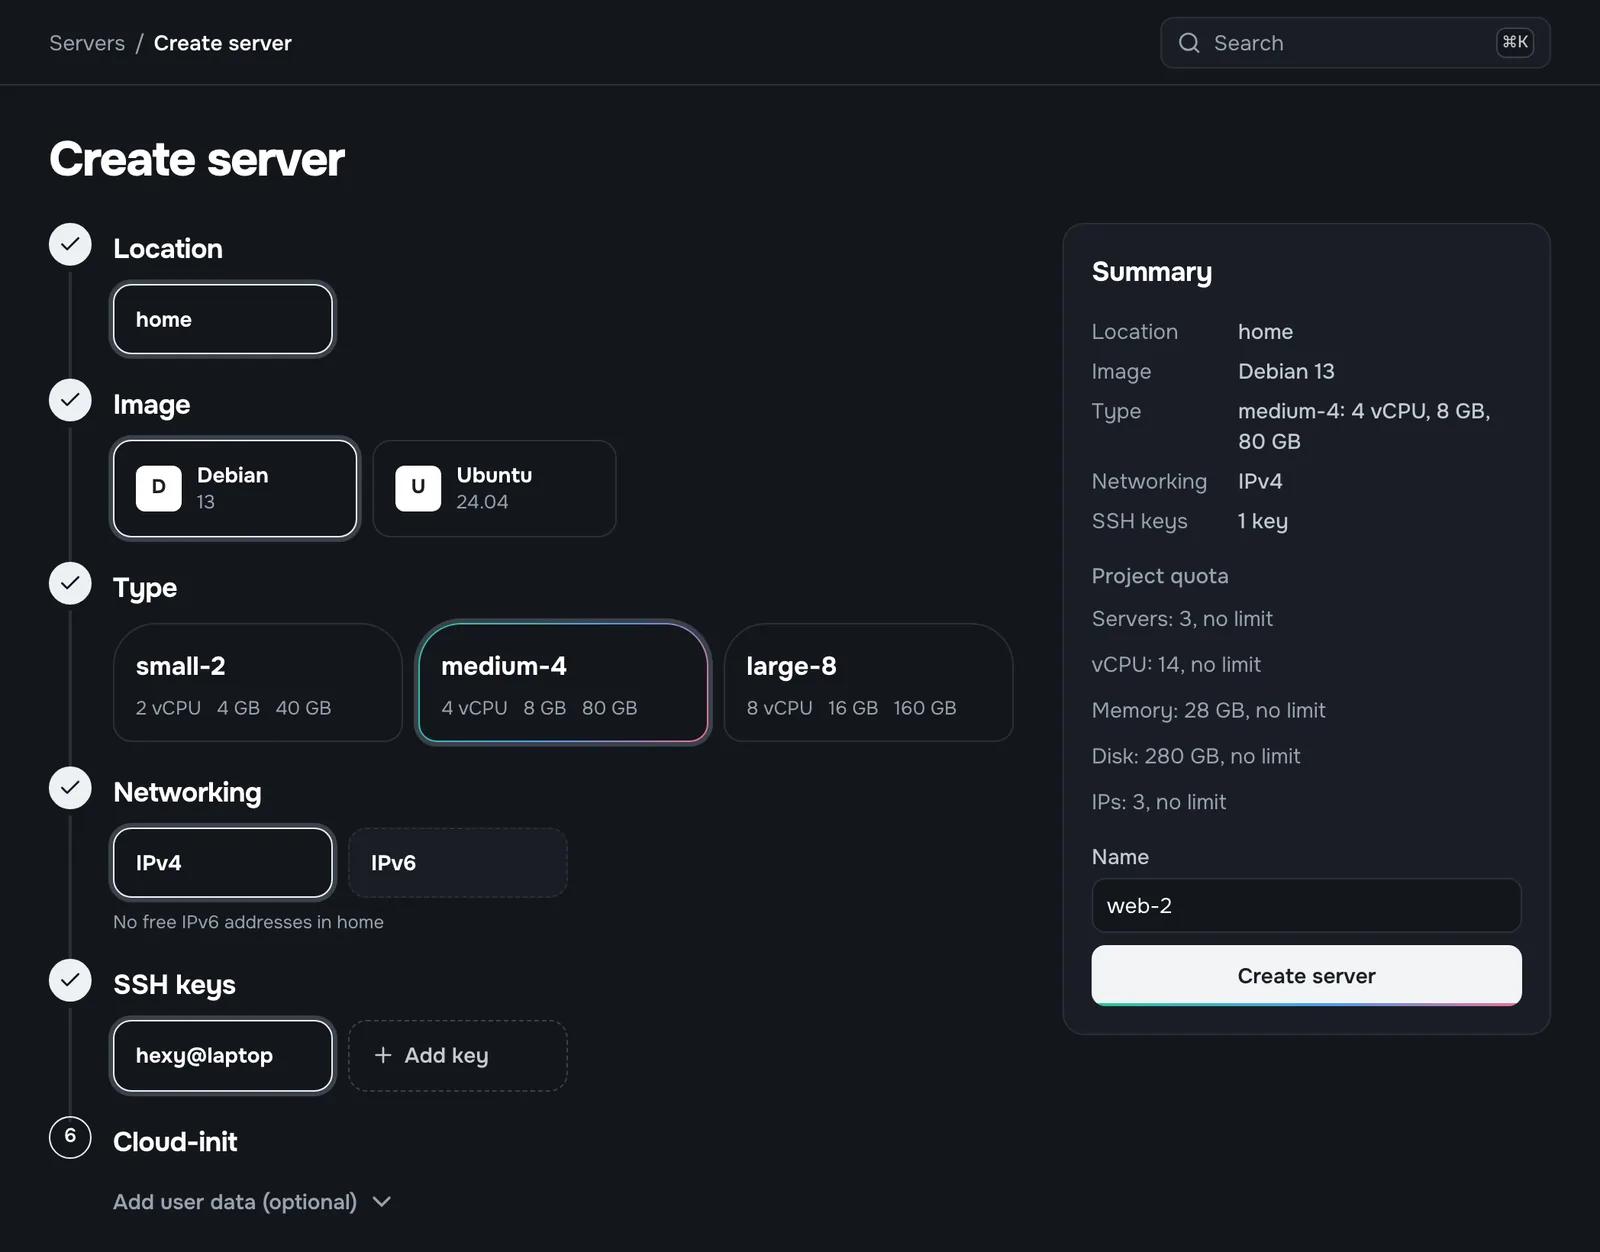
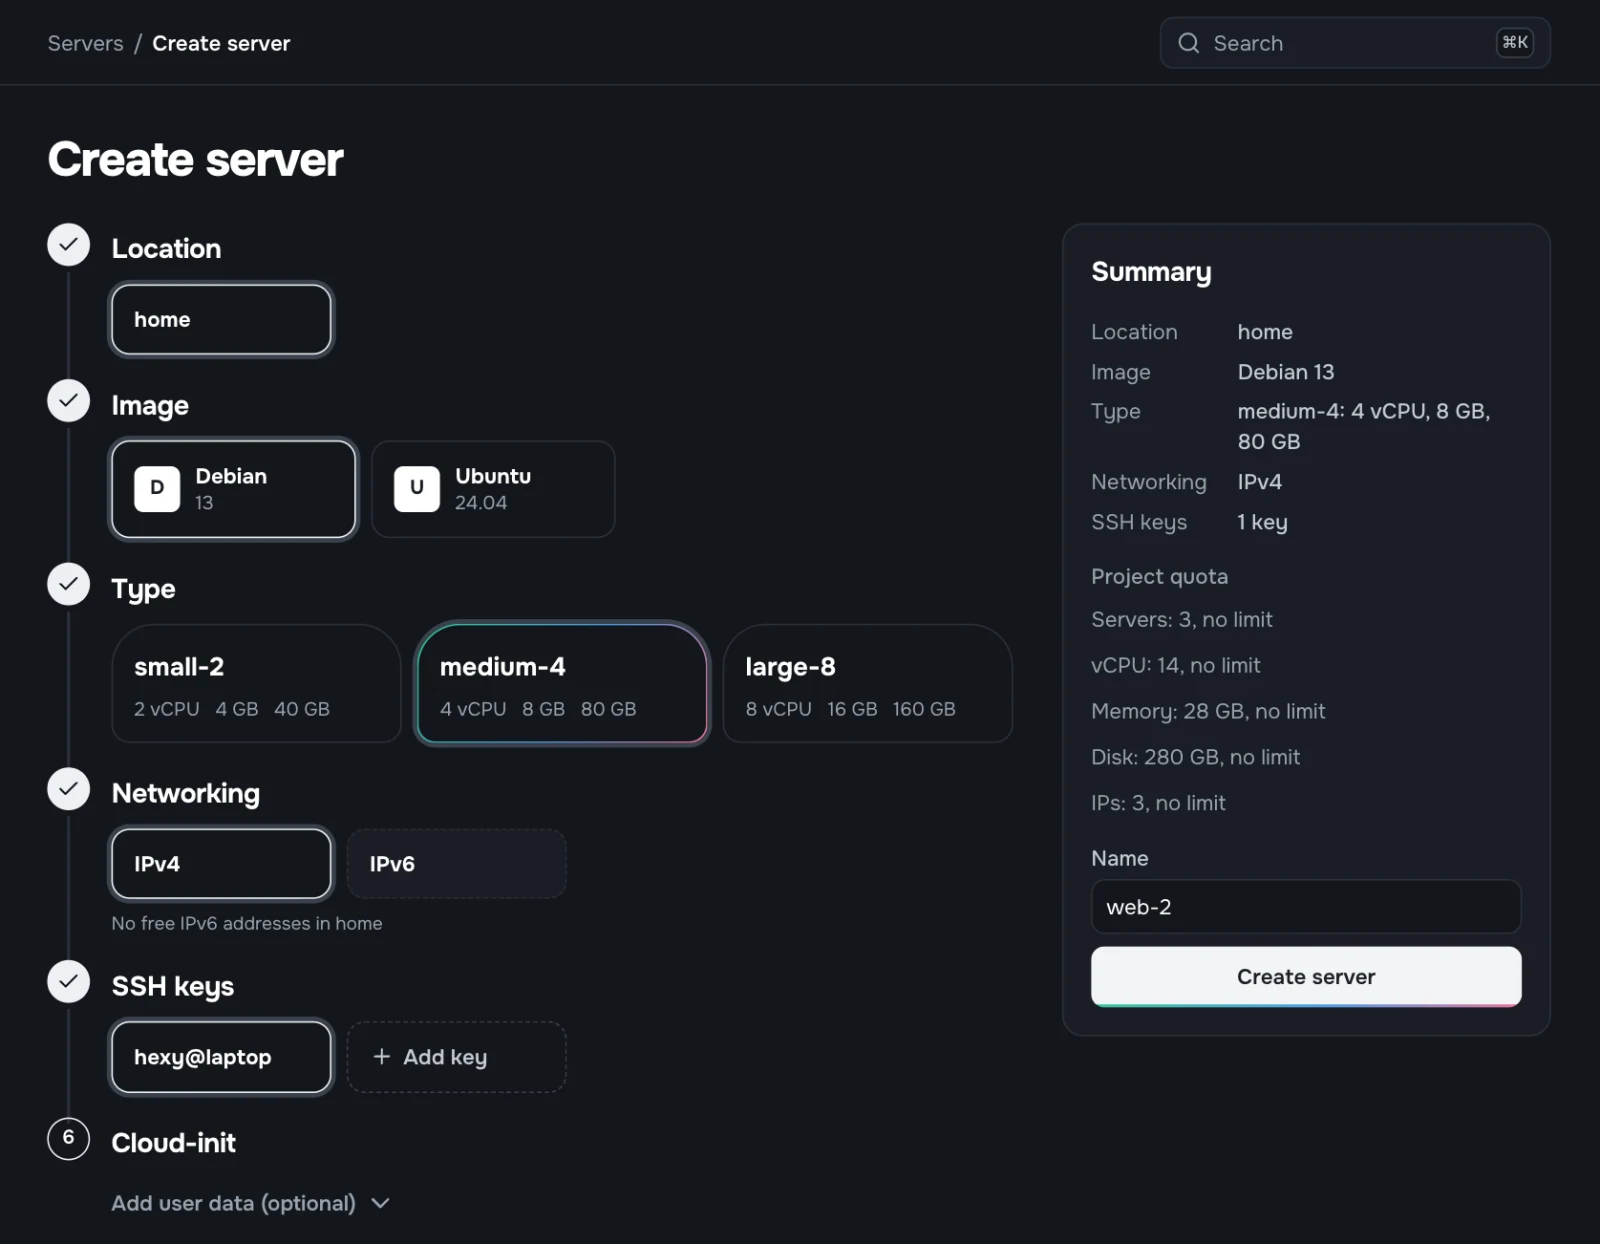
feat: retake panel screenshots with the new graphs and a capture script
scripts/capture-panel.mjs (pnpm capture:panel) builds the panel in the
core repo, runs its UI harness, sets up a Home lab project with three
servers and writes all six screenshots. The fake Proxmox only returns a
five-point ramp for metrics, so the script answers the metrics API with
a seeded hour of realistic data per server.

diff --git a/app/components/mock/PanelShot.vue b/app/components/mock/PanelShot.vue
@@ -1,10 +1,10 @@
 <script setup lang="ts">
 // Real screenshots of the panel (light and dark), captured from the UI harness on demo data.
-// Regenerate them into public/screens/ when the panel's look changes.
+// Regenerate them with `pnpm capture:panel` when the panel's look changes, and update the heights here.
 const SHOTS = {
-  'create-server': { title: 'panel.example.com / Home lab / Servers / New', width: 1600, height: 1252, alt: 'The Nebla create-server page: location, image, type, networking and SSH key chosen step by step, with a summary and project quota beside them.' },
-  'server-detail': { title: 'panel.example.com / Home lab / Servers / web-1', width: 1600, height: 1024, alt: 'The Nebla server page for web-1: running Debian 13 on medium-4, with CPU, network and disk graphs, its details and recent activity.' },
-  'server-list': { title: 'panel.example.com / Home lab / Servers', width: 1600, height: 753, alt: 'The Nebla server list for the Home lab project: three running servers with their image, type, IPv4 address, location and CPU sparkline.' }
+  'create-server': { title: 'panel.example.com / Home lab / Servers / New', width: 1600, height: 1244, alt: 'The Nebla create-server page: location, image, type, networking and SSH key chosen step by step, with a summary and project quota beside them.' },
+  'server-detail': { title: 'panel.example.com / Home lab / Servers / web-1', width: 1600, height: 1030, alt: 'The Nebla server page for web-1: running Debian 13 on medium-4, with CPU, network and disk graphs, its details and recent activity.' },
+  'server-list': { title: 'panel.example.com / Home lab / Servers', width: 1600, height: 749, alt: 'The Nebla server list for the Home lab project: three running servers with their image, type, IPv4 address, location and CPU sparkline.' }
 } as const
 
 const props = withDefaults(defineProps<{ shot: keyof typeof SHOTS, priority?: boolean }>(), { priority: false })

diff --git a/README.md b/README.md
@@ -58,7 +58,7 @@ nebla.dev runs on Coolify from the `Dockerfile`: it builds the site, runs `check
 
 ## Panel screenshots
 
-`public/screens/` holds real screenshots of the panel in light and dark, taken from the core repo's UI harness (`internal/uiharness`) on demo data, and `PanelShot` shows them in a window frame. Retake them whenever the panel's look changes.
+`public/screens/` holds real screenshots of the panel in light and dark, taken from the core repo's UI harness (`internal/uiharness`) on demo data, and `PanelShot` shows them in a window frame. Retake them whenever the panel's look changes with `pnpm capture:panel`: it builds the panel in `../nebla` (or `--core=<path>`), runs the harness, sets up a Home lab project with three servers in your installed Chrome, and writes all six images. The fake Proxmox only returns a five-point ramp for metrics, so the script answers the metrics API with a seeded hour of realistic data per server. `--skip-build` reuses the current `web/dist`. If an image's height changes, update it in `PanelShot`.
 
 ## Licence
 
